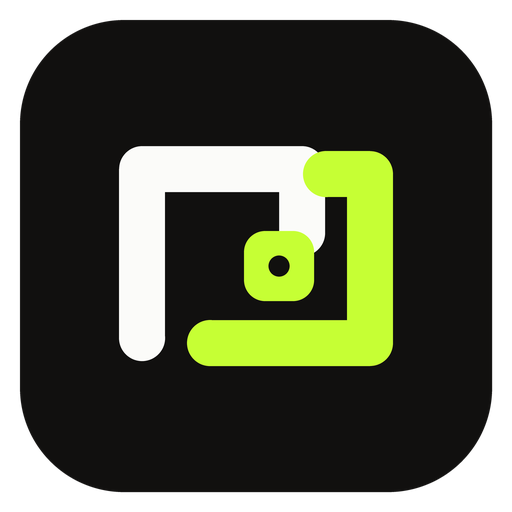
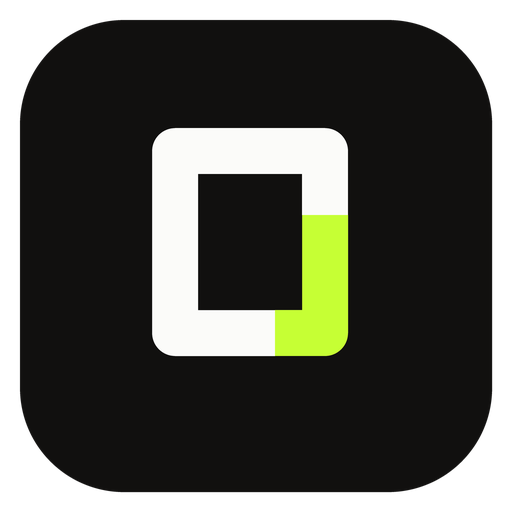
fix(landing): unify GoProceed brand mark

Changed region(s): [[0.2188, 0.25, 0.7812, 0.7188]]

diff --git a/apps/landing/components/blocks/field-mobile.tsx b/apps/landing/components/blocks/field-mobile.tsx
@@ -1,6 +1,7 @@
 import Image from "next/image";
 import { Reveal, Stagger, StaggerItem } from "@goproceed/ui/motion";
 import { landingContent } from "../../content/landing-content";
+import { BrandMark } from "../brand-mark";
 import { SectionShell } from "../section-shell";
 
 const content = landingContent.field;
@@ -38,7 +39,7 @@ export function FieldMobile() {
           <div className="landing-blueprint absolute inset-8 rotate-2 rounded-section border border-line-inverse bg-inverse" />
           <div role="region" aria-label="Польовий застосунок" className="relative mx-auto max-w-[390px] overflow-hidden rounded-section border border-line-inverse bg-surface shadow-modal">
             <div className="flex items-center gap-3 border-b border-line px-4 py-3">
-              <span className="grid size-8 place-items-center rounded-control bg-action text-micro font-semibold text-action-fg">GP</span>
+              <BrandMark className="size-8 shrink-0" />
               <span>
                 <span className="block text-meta font-semibold text-ink">Польовий застосунок</span>
                 <span className="block text-micro text-ink-muted">ВРУ-1 · Секція А</span>

diff --git a/apps/landing/components/blocks/system-dashboard.tsx b/apps/landing/components/blocks/system-dashboard.tsx
@@ -2,6 +2,7 @@ import Image from "next/image";
 import { Chip, type ChipTone } from "@goproceed/ui/components";
 import { Stagger, StaggerItem } from "@goproceed/ui/motion";
 import { landingContent } from "../../content/landing-content";
+import { BrandMark } from "../brand-mark";
 
 const content = landingContent.dashboard;
 
@@ -32,7 +33,7 @@ export function DashboardSurface() {
           <div className="grid min-h-[660px] wide:grid-cols-[190px_minmax(0,1fr)_300px]">
             <aside className="hidden flex-col bg-inverse px-3 py-5 text-on-inverse wide:flex">
               <div className="flex items-center gap-3 px-2">
-                <span className="grid size-8 place-items-center rounded-control bg-action-signal text-meta font-semibold text-action-signal-fg">GP</span>
+                <BrandMark className="size-8 shrink-0" />
                 <div>
                   <p className="text-data font-semibold">GoProceed</p>
                   <p className="text-micro text-on-inverse-muted">Контур проєкту</p>

diff --git a/apps/landing/components/blocks/final-cta.tsx b/apps/landing/components/blocks/final-cta.tsx
@@ -1,5 +1,6 @@
 import { Reveal, TextBlurIn } from "@goproceed/ui/motion";
 import { landingContent } from "../../content/landing-content";
+import { BrandMark } from "../brand-mark";
 import { MockAction } from "../mock-action";
 
 const content = landingContent.final;
@@ -37,9 +38,7 @@ export function FinalCta() {
             className="overflow-hidden rounded-section border border-line-strong bg-surface shadow-modal"
           >
             <header className="flex items-center gap-3 border-b border-line px-6 py-5 md:px-8">
-              <span className="grid size-9 place-items-center rounded-control bg-action text-meta font-semibold text-action-fg">
-                GP
-              </span>
+              <BrandMark className="size-9 shrink-0" />
               <div>
                 <p className="text-data font-semibold text-ink">Перший пілотний контур</p>
                 <p className="mt-0.5 text-meta text-ink-muted">Робочий бриф · без надсилання даних</p>

diff --git a/apps/landing/tests/landing-render.test.tsx b/apps/landing/tests/landing-render.test.tsx
@@ -6,7 +6,7 @@ import LandingPage from "../app/page";
 const html = renderToStaticMarkup(<LandingPage />);
 
 describe("landing semantic frame", () => {
-  it("pairs the project mark with the GoProceed wordmark in navigation", () => {
+  it("uses the same project mark across site chrome and product previews", () => {
     const navigationStart = html.indexOf('<nav aria-label="Головна навігація"');
     const brandLinkEnd = html.indexOf("</a>", navigationStart);
     const brandLinkHtml = html.slice(navigationStart, brandLinkEnd);
@@ -15,7 +15,8 @@ describe("landing semantic frame", () => {
     expect(brandLinkHtml).toContain("<img");
     expect(brandLinkHtml).toContain('alt=""');
     expect(brandLinkHtml).toContain("GoProceed");
-    expect(brandLinkHtml).not.toContain(">GP<");
+    expect(html.match(/data-brand-mark="true"/g) ?? []).toHaveLength(4);
+    expect(html).not.toContain(">GP</span>");
   });
 
   it("publishes one main heading and the first narrative landmarks", () => {

diff --git a/apps/landing/components/blocks/footer.tsx b/apps/landing/components/blocks/footer.tsx
@@ -1,4 +1,5 @@
 import { landingContent } from "../../content/landing-content";
+import { BrandMark } from "../brand-mark";
 
 const footerLinks = [
   { label: "Продукт", href: "#product" },
@@ -14,12 +15,7 @@ export function Footer() {
       <div className="mx-auto grid max-w-content gap-8 wide:grid-cols-[1fr_auto] wide:items-start">
         <div>
           <a href="#product" className="inline-flex min-h-11 items-center gap-3 text-ink">
-            <span
-              aria-hidden="true"
-              className="grid size-9 place-items-center rounded-pill bg-action text-meta font-semibold text-action-fg"
-            >
-              GP
-            </span>
+            <BrandMark className="size-9 shrink-0" />
             <span className="text-data font-semibold">{landingContent.footer.line}</span>
           </a>
           <p className="mt-4 max-w-[66ch] text-meta leading-relaxed text-ink-muted">

diff --git a/apps/landing/components/blocks/nav-float.tsx b/apps/landing/components/blocks/nav-float.tsx
@@ -1,5 +1,5 @@
-import Image from "next/image";
 import { landingContent } from "../../content/landing-content";
+import { BrandMark } from "../brand-mark";
 import { MockAction } from "../mock-action";
 
 export function NavFloat() {
@@ -10,14 +10,7 @@ export function NavFloat() {
         className="mx-auto flex h-16 max-w-content items-center gap-6"
       >
         <a href="#product" className="flex min-h-11 items-center gap-2 rounded-pill text-ink">
-          <Image
-            src="/icon.png"
-            alt=""
-            width={32}
-            height={32}
-            priority
-            className="size-8 shrink-0"
-          />
+          <BrandMark className="size-8 shrink-0" priority />
           <span className="text-data font-semibold tracking-tight">GoProceed</span>
         </a>
 

diff --git a/apps/landing/components/brand-mark.tsx b/apps/landing/components/brand-mark.tsx
@@ -1,0 +1,20 @@
+import Image from "next/image";
+
+type BrandMarkProps = {
+  className?: string;
+  priority?: boolean;
+};
+
+export function BrandMark({ className = "size-8", priority = false }: BrandMarkProps) {
+  return (
+    <Image
+      data-brand-mark="true"
+      src="/icon.png"
+      alt=""
+      width={64}
+      height={64}
+      priority={priority}
+      className={className}
+    />
+  );
+}
